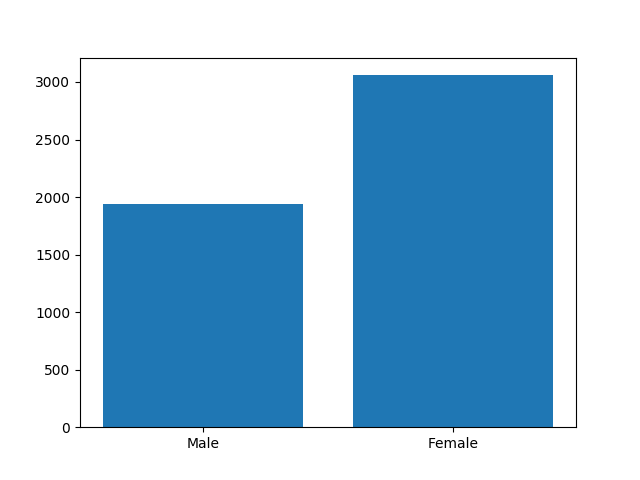
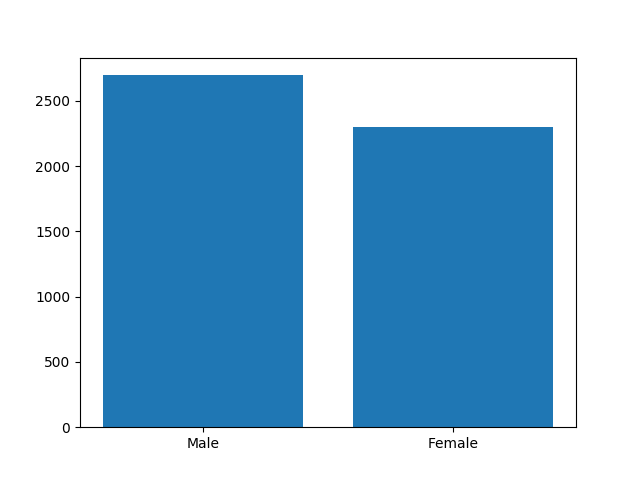
Change distribution plot

diff --git a/explore.py b/explore.py
@@ -48,24 +48,9 @@ def results_no_tuning_acc():
     plt.savefig('./img/result_no_tuning_accuracy.png')
 
 def plot_male_female_dist(val_spk):
-    counts, maj = majority.majority(val_spk)
-    labels_gender = label_gender.filter_speakers(counts)
-    # Two arrays should now have the same size and the same ID's
-    assert labels_gender.shape == counts.shape
-    assert np.all(labels_gender[:,0] == counts[:,0])
-
-    male = 0
-    female = 0
-    for i in range(labels_gender.shape[0]):
-        if not labels_gender[i][1]:
-            male += counts[i][1]
-        else:
-            female += counts[i][1]
-
-    assert male + female == val_spk.shape[0]
+    male, female = label_gender.count_occurences_male_female(val_spk)
 
     plt.bar([0,1], [male,female], align='center')
     plt.xticks([0,1], ['Male','Female'])
     plt.savefig('./img/male_female_distribution.png')
     plt.show()
-

diff --git a/classify_gender_no_tuning.py b/classify_gender_no_tuning.py
@@ -10,8 +10,16 @@ val_gender = label_gender.create_y_train(val_spk)
 N_SPLITS = 5
 
 def mfcc():
-    return None
+    """
+    First run without further hyperparameter tuning (i.e. loss='log', max_iter=1000, n_jobs=1, learning_rate='optimal'):
 
+
+
+    Average accuracy over all folds is thus
+    Average F1-score over all folds is thus
+    :return:
+    """
+    cross_val(val_mfcc, val_gender)
 
 def conv():
     return None

diff --git a/label_gender.py b/label_gender.py
@@ -653,6 +653,7 @@ def create_y_train(val_spk):
     for label in val_gender:
         female += label
 
+    # Make sure the right gender is assigned to the right speaker
     male_count, female_count = count_occurences_male_female(val_spk)
     assert female == female_count and val_gender.shape[0] - female == male_count
 
